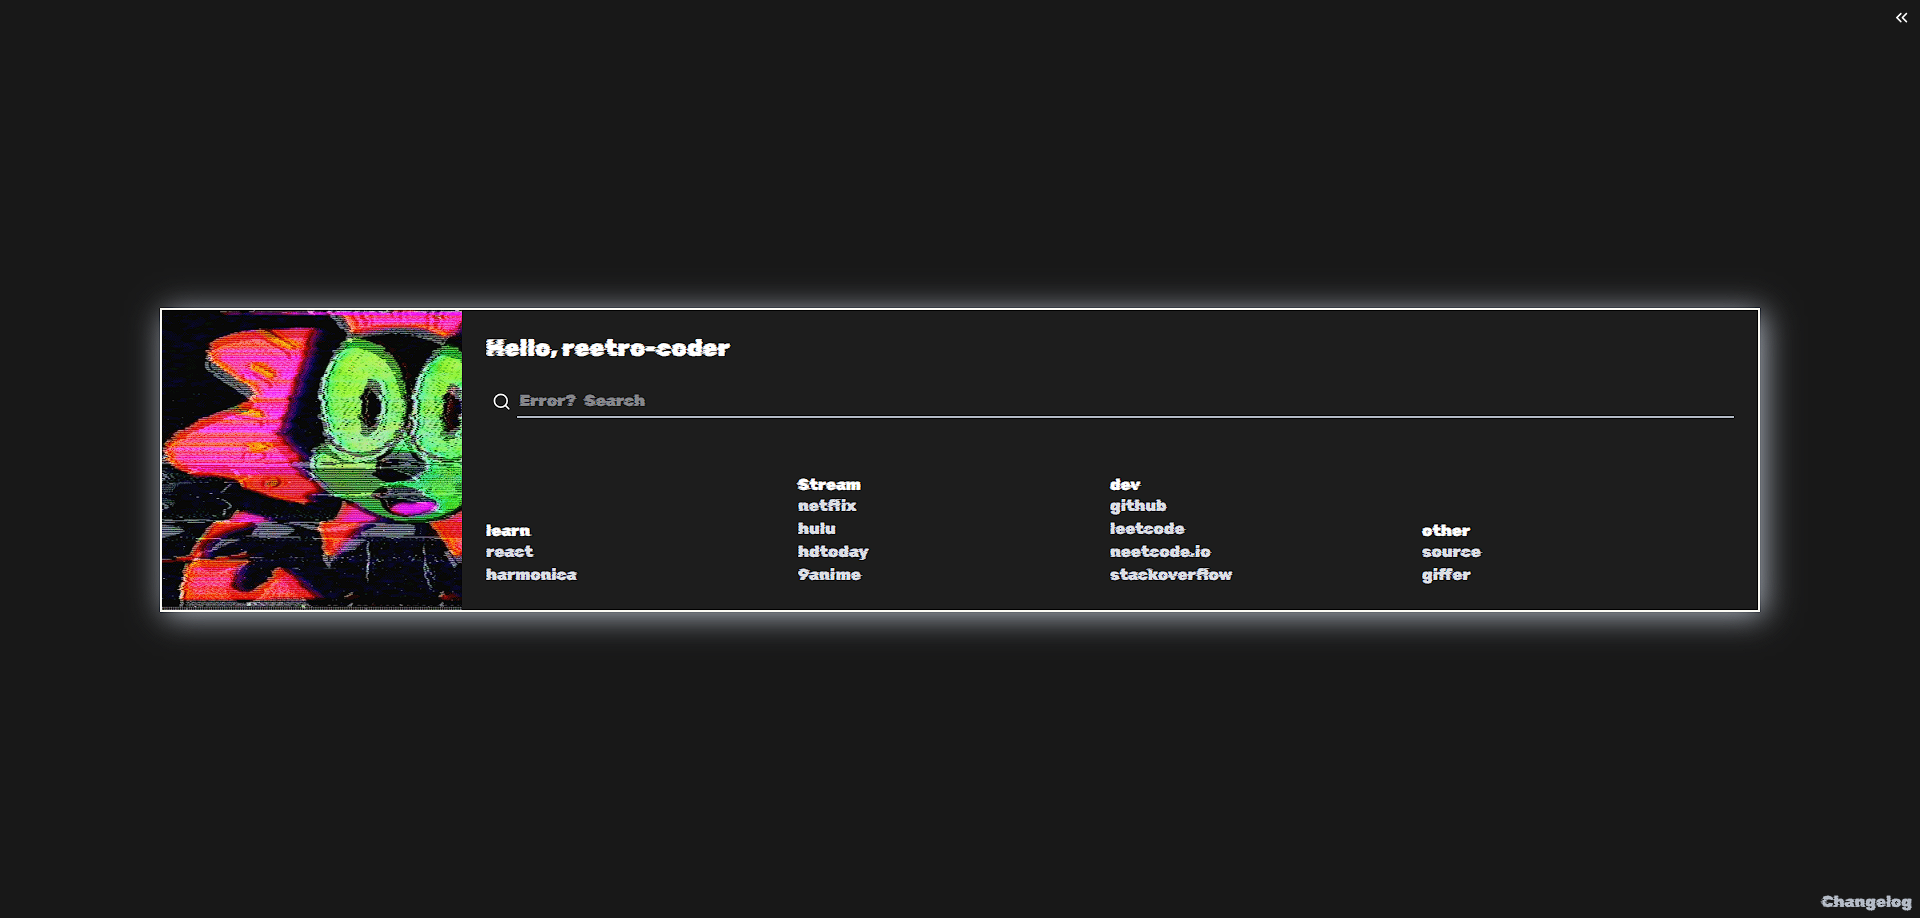
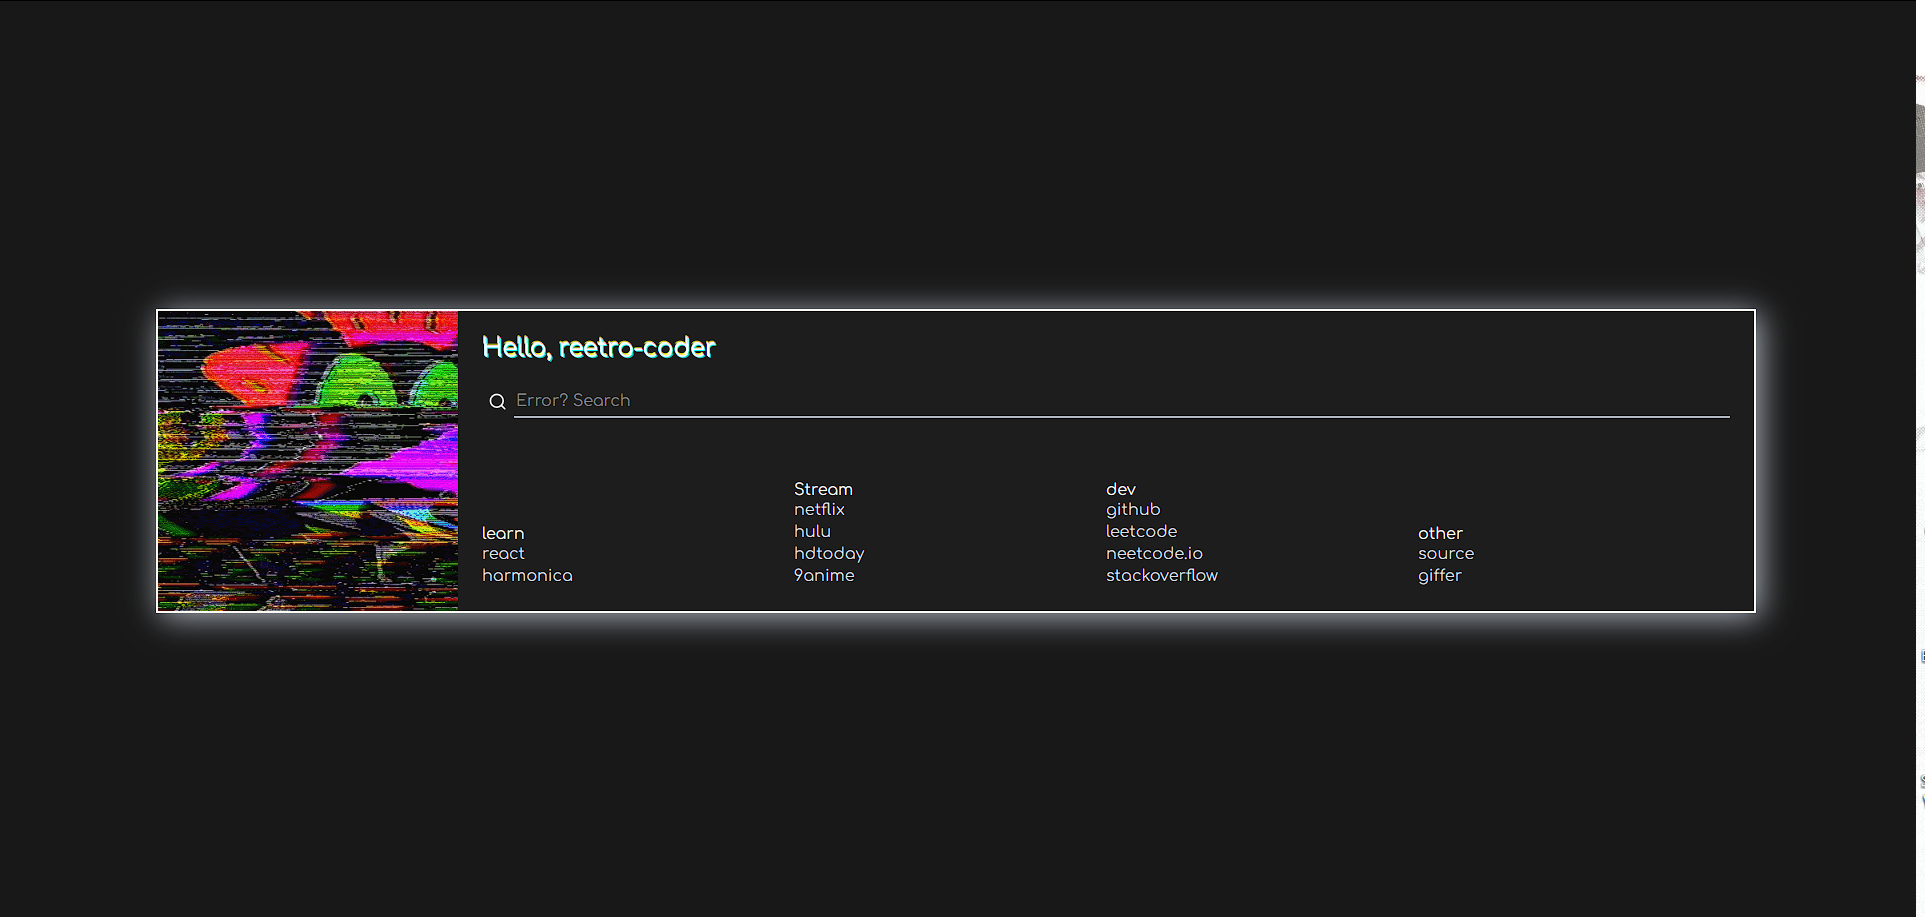
font changes

Changed region(s): [[0.0625, 0.3359, 0.9375, 0.6718], [0.9375, 0.0, 1.0, 1.0]]

diff --git a/glitch-felix-the-cat/styles.css b/glitch-felix-the-cat/styles.css
@@ -93,7 +93,7 @@ body {
  * Title
  **/
 
-.surface > main > h1 {
+.surface > main > h1, p {
   color: var(--color-primary-fg);
   font-size: var(--space-large);
   font-weight: 500;
@@ -221,4 +221,62 @@ a#yags-link:hover,
 a#yags-link:focus-visible {
   color: var(--color-fg-base);
   text-decoration: underline;
+}
+
+.glitch {
+  position: relative;
+  text-shadow: 0.05em 0 0 #00fffc, -0.03em -0.04em 0 #fc00ff,
+    0.025em 0.04em 0 #fffc00;
+  animation: glitch 725ms infinite;
+}
+
+.glitch span {
+  position: absolute;
+  top: 0;
+  left: 0;
+}
+
+.glitch span:first-child {
+  animation: glitch 500ms infinite;
+  clip-path: polygon(0 0, 100% 0, 100% 35%, 0 35%);
+  transform: translate(-0.04em, -0.03em);
+  opacity: 0.75;
+}
+
+.glitch span:last-child {
+  animation: glitch 375ms infinite;
+  clip-path: polygon(0 65%, 100% 65%, 100% 100%, 0 100%);
+  transform: translate(0.04em, 0.03em);
+  opacity: 0.75;
+}
+
+@keyframes glitch {
+  0% {
+    text-shadow: 0.05em 0 0 #00fffc, -0.03em -0.04em 0 #fc00ff,
+      0.025em 0.04em 0 #fffc00;
+  }
+  15% {
+    text-shadow: 0.05em 0 0 #00fffc, -0.03em -0.04em 0 #fc00ff,
+      0.025em 0.04em 0 #fffc00;
+  }
+  16% {
+    text-shadow: -0.05em -0.025em 0 #00fffc, 0.025em 0.035em 0 #fc00ff,
+      -0.05em -0.05em 0 #fffc00;
+  }
+  49% {
+    text-shadow: -0.05em -0.025em 0 #00fffc, 0.025em 0.035em 0 #fc00ff,
+      -0.05em -0.05em 0 #fffc00;
+  }
+  50% {
+    text-shadow: 0.05em 0.035em 0 #00fffc, 0.03em 0 0 #fc00ff,
+      0 -0.04em 0 #fffc00;
+  }
+  99% {
+    text-shadow: 0.05em 0.035em 0 #00fffc, 0.03em 0 0 #fc00ff,
+      0 -0.04em 0 #fffc00;
+  }
+  100% {
+    text-shadow: -0.05em 0 0 #00fffc, -0.025em -0.04em 0 #fc00ff,
+      -0.04em -0.025em 0 #fffc00;
+  }
 }

diff --git a/glitch-felix-the-cat/index.html b/glitch-felix-the-cat/index.html
@@ -3,6 +3,7 @@
   <head>
     <meta charset="utf-8" />
     <link rel="icon" href="./favicon.ico" />
+    <link rel="stylesheet" href="https://fonts.googleapis.com/css?family=Comfortaa|Henny Penny">
     <link href="./styles.css" rel="stylesheet"> 
     <title>New tab</title>
   </head>
@@ -10,20 +11,23 @@
     <div class="surface">
       <img src="https://i.gifer.com/SGni.gif" alt="" />
       <main>
-        <h1>Hello, reetro-coder</h1>
+        <p class="glitch">
+          <span aria-hidden="true">Hello, reetro-coder</span>
+          Hello, reetro-coder
+          <span aria-hidden="true">Hello, reetro-coder</span>
+        </p>
         <div id="searchbar">
           <button>
             <svg xmlns="http://www.w3.org/2000/svg" width="24" height="24" viewBox="0 0 24 24" fill="none" stroke="currentColor" stroke-width="2" stroke-linecap="round" stroke-linejoin="round" class="feather feather-search"><circle cx="11" cy="11" r="8"></circle><line x1="21" y1="21" x2="16.65" y2="16.65"></line></svg>
             <span class="visually-hidden">Search</span>
           </button>
-          <input type="text" placeholder="Error?   Search" autofocus />
+          <input type="text" placeholder="Error? Search" autofocus />
         </div>
         <div id="bookmarks">
           <!-- Bookmarks will get inserted here! -->
         </div>
       </main>
     </div>
-    <a id="yags-link" href="https://prettycoffee.github.io/yet-another-generic-startpage/">Created with YAGS</a>
   </body>
   <script type="text/javascript" src="./scripts.js"></script>
 </html>

diff --git a/glitch-felix-the-cat/variables.css b/glitch-felix-the-cat/variables.css
@@ -24,7 +24,7 @@
   --color-palette-orange: #FFBB7C;
   
   /** general */
-  --font-family: Rubik Glitch;
+  --font-family: Comfortaa;
   --display-image: block;
 
   /** surface */
